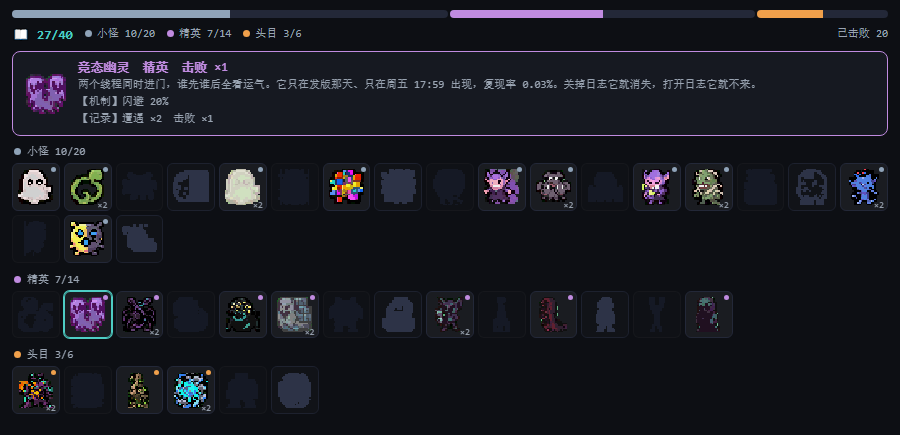
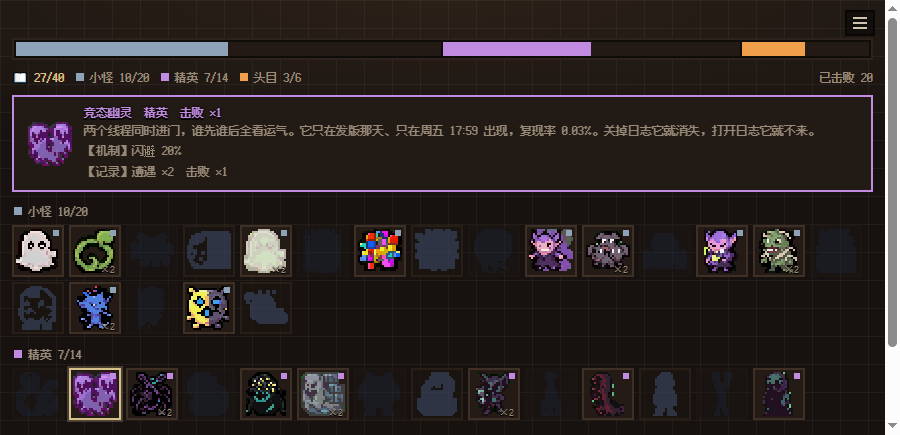
chore: 更新市场页展示截图，升版本 0.5.1

diff --git a/vscode-extension/CHANGELOG.md b/vscode-extension/CHANGELOG.md
@@ -3,6 +3,12 @@
 > 更早版本（`0.1.0` / `0.1.1`）的说明见 GitHub Releases：<https://github.com/LMLuo/nibble/releases>
 > 发布新版本时，把下面的「未发布」改成实际版本号即可（`vsce` 会把本文件展示在扩展详情页）。
 
+## 0.5.1
+
+### 市场页展示截图更新
+
+- `panel-preview.png`（首屏）与 `bestiary-preview.png`（怪物库）按新版像素风格重拍：战斗页首屏带 `×12` 连击徽标 + 脚下光环，怪物库为新暖色皮肤与三档分组
+
 ## 0.5.0
 
 ### 战斗页高质量像素化重做（主程序；官网 site/ 不受影响）
